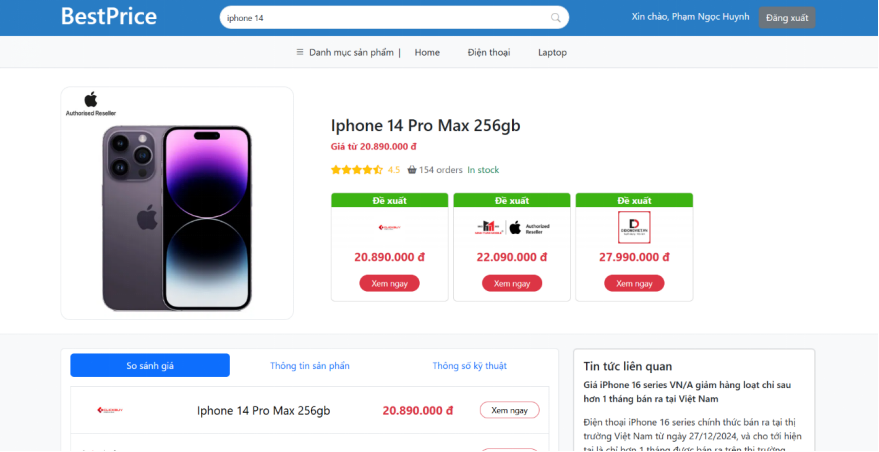
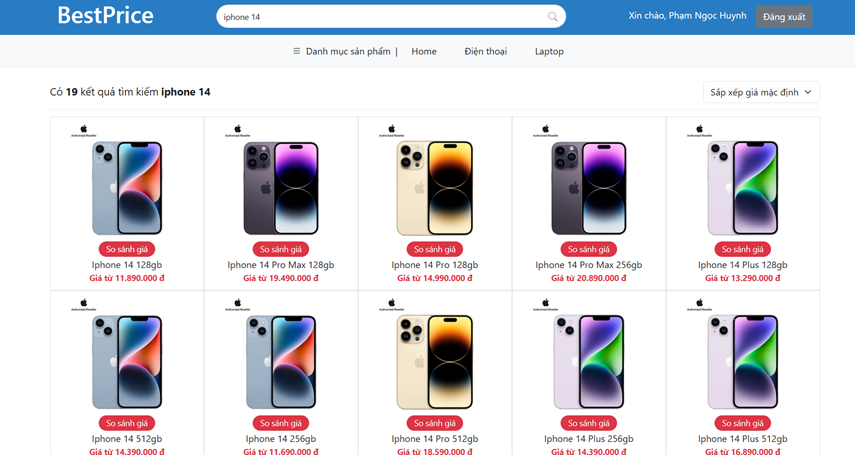
update bestprice

diff --git a/index.html b/index.html
@@ -834,13 +834,95 @@
             ></button>
           </div>
           <div class="modal-body">
-            <!-- Project Images -->
-            <div class="project-demo-image mb-4">
-              <img
-                src="./image/bestprice-ui/bestprice-ui-1.png"
-                alt="BestPrice"
-                class="img-fluid rounded shadow-lg"
-              />
+            <!-- Project Images Carousel -->
+            <div class="project-carousel mb-4">
+              <div
+                id="bestpriceCarousel"
+                class="carousel slide"
+                data-bs-ride="carousel"
+              >
+                <div class="carousel-indicators">
+                  <button
+                    type="button"
+                    data-bs-target="#bestpriceCarousel"
+                    data-bs-slide-to="0"
+                    class="active"
+                    aria-label="Slide 1"
+                  ></button>
+                  <button
+                    type="button"
+                    data-bs-target="#bestpriceCarousel"
+                    data-bs-slide-to="1"
+                    aria-label="Slide 2"
+                  ></button>
+                  <button
+                    type="button"
+                    data-bs-target="#bestpriceCarousel"
+                    data-bs-slide-to="2"
+                    aria-label="Slide 3"
+                  ></button>
+                  <button
+                    type="button"
+                    data-bs-target="#bestpriceCarousel"
+                    data-bs-slide-to="3"
+                    aria-label="Slide 4"
+                  ></button>
+                </div>
+                <div class="carousel-inner">
+                  <div class="carousel-item active">
+                    <img
+                      src="./image/bestprice-ui/bestprice-ui-1.png"
+                      alt="BestPrice - Home Page"
+                      class="d-block w-100"
+                    />
+                  </div>
+                  <div class="carousel-item">
+                    <img
+                      src="./image/bestprice-ui/bestprice-ui-2.png"
+                      alt="BestPrice - Search Results"
+                      class="d-block w-100"
+                    />
+                  </div>
+                  <div class="carousel-item">
+                    <img
+                      src="./image/bestprice-ui/bestprice-ui-3.png"
+                      alt="BestPrice - Price Comparison"
+                      class="d-block w-100"
+                    />
+                  </div>
+                  <div class="carousel-item">
+                    <img
+                      src="./image/bestprice-ui/bestprice-ui-4.png"
+                      alt="BestPrice - Admin Dashboard"
+                      class="d-block w-100"
+                    />
+                  </div>
+                </div>
+                <button
+                  class="carousel-control-prev"
+                  type="button"
+                  data-bs-target="#bestpriceCarousel"
+                  data-bs-slide="prev"
+                >
+                  <span
+                    class="carousel-control-prev-icon"
+                    aria-hidden="true"
+                  ></span>
+                  <span class="visually-hidden">Previous</span>
+                </button>
+                <button
+                  class="carousel-control-next"
+                  type="button"
+                  data-bs-target="#bestpriceCarousel"
+                  data-bs-slide="next"
+                >
+                  <span
+                    class="carousel-control-next-icon"
+                    aria-hidden="true"
+                  ></span>
+                  <span class="visually-hidden">Next</span>
+                </button>
+              </div>
             </div>
 
             <!-- Project Details -->
@@ -904,7 +986,7 @@
                 class="d-flex align-items-center justify-content-center gap-2"
               >
                 <a
-                  href="https://github.com/VanCongChiThanh/BestPrice"
+                  href="https://github.com/VanCongChiThanh/BestPrice-FE"
                   class="btn btn-primary"
                   target="_blank"
                 >
@@ -1172,7 +1254,7 @@
                 class="d-flex align-items-center justify-content-center gap-2"
               >
                 <a
-                  href="https://github.com/VanCongChiThanh/Microsoft-Teams-Clone"
+                  href="https://github.com/VanCongChiThanh/teams-clone"
                   class="btn btn-primary"
                   target="_blank"
                 >
